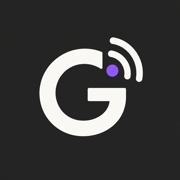
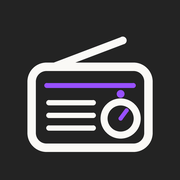
Replace Radio app artwork with retro radio and preserve iOS installation

Changed region(s): [[0.1389, 0.1944, 0.8611, 0.8611]]

diff --git a/radio.html b/radio.html
@@ -10,10 +10,11 @@
   <meta name="apple-mobile-web-app-capable" content="yes">
   <meta name="mobile-web-app-capable" content="yes">
   <meta name="theme-color" content="#7637cc">
-  <link rel="apple-touch-icon" sizes="180x180" href="/assets/radio-app/icon.svg?v=20261111-radio">
-  <link rel="manifest" href="/radio.webmanifest?v=20261111-radio">
+  <link rel="apple-touch-icon" sizes="180x180" href="/assets/radio-app/apple-touch-icon.png?v=20261111-retro-radio">
+  <link rel="manifest" href="/radio.webmanifest?v=20261111-retro-radio">
   <link href="https://fonts.googleapis.com/css2?family=Montserrat:wght@300;400;500&display=swap" rel="stylesheet">
-  <link rel="icon" type="image/svg+xml" sizes="any" href="/assets/radio-app/icon.svg?v=20261111-radio">
+  <link rel="icon" type="image/png" sizes="32x32" href="/assets/radio-app/favicon-32.png?v=20261111-retro-radio">
+  <link rel="icon" type="image/svg+xml" sizes="any" href="/assets/radio-app/icon.svg?v=20261111-retro-radio">
   <link rel="stylesheet" href="assets/tools.css">
   <link rel="stylesheet" href="assets/radio.css?v=20260924-2">
   <script src="assets/theme.js?v=20261017-theme-switch" defer></script>
@@ -43,7 +44,7 @@
 <a class="gregle-app" href="https://finance.gregle.uk/" data-gregle-app-id="/finance.html"><img src="/assets/finance-app/icon-192.png" width="44" height="44" alt="" loading="lazy" decoding="async"><span>Finance</span></a>
 <a class="gregle-app" href="https://calc.gregle.uk/" data-gregle-app-id="/calc.html"><img src="/assets/calc-app/icon-192.png" width="44" height="44" alt="" loading="lazy" decoding="async"><span>Calculator</span></a>
 <a class="gregle-app" href="https://links.gregle.uk/" data-gregle-app-id="/links.html"><img src="/assets/tools-app.svg" width="44" height="44" alt="" loading="lazy" decoding="async"><span>More</span></a>
-<a class="gregle-app" href="https://radio.gregle.uk/" aria-current="page" data-gregle-app-id="/radio.html"><img src="/assets/radio-app/icon-192.png" width="44" height="44" alt="" loading="lazy" decoding="async"><span>Radio</span></a>
+<a class="gregle-app" href="https://radio.gregle.uk/" aria-current="page" data-gregle-app-id="/radio.html"><img src="/assets/radio-app/icon-192.png?v=20261111-retro-radio" width="44" height="44" alt="" loading="lazy" decoding="async"><span>Radio</span></a>
 <a class="gregle-app" href="https://dictionary.gregle.uk/" data-gregle-app-id="/dictionary.html"><img src="/assets/dictionary-app/icon-192.png" width="44" height="44" alt="" loading="lazy" decoding="async"><span>Dictionary</span></a>
 <a class="gregle-app" href="https://maps.gregle.uk/" data-gregle-app-id="/maps.html"><img src="/assets/maps-app/icon.svg" width="44" height="44" alt="" loading="lazy" decoding="async"><span>Maps</span></a>
 <a class="gregle-app" href="https://cloud.gregle.uk" data-gregle-app-id="https://cloud.gregle.uk"><img src="/assets/cloud-app/icon.svg" width="44" height="44" alt="" loading="lazy" decoding="async"><span>Cloud</span></a>

diff --git a/calc.html b/calc.html
@@ -50,7 +50,7 @@
 <a class="gregle-app" href="https://finance.gregle.uk/" data-gregle-app-id="/finance.html"><img src="/assets/finance-app/icon-192.png" width="44" height="44" alt="" loading="lazy" decoding="async"><span>Finance</span></a>
 <a class="gregle-app" href="https://calc.gregle.uk/" aria-current="page" data-gregle-app-id="/calc.html"><img src="/assets/calc-app/icon-192.png" width="44" height="44" alt="" loading="lazy" decoding="async"><span>Calculator</span></a>
 <a class="gregle-app" href="https://links.gregle.uk/" data-gregle-app-id="/links.html"><img src="/assets/tools-app.svg" width="44" height="44" alt="" loading="lazy" decoding="async"><span>More</span></a>
-<a class="gregle-app" href="https://radio.gregle.uk/" data-gregle-app-id="/radio.html"><img src="/assets/radio-app/icon-192.png" width="44" height="44" alt="" loading="lazy" decoding="async"><span>Radio</span></a>
+<a class="gregle-app" href="https://radio.gregle.uk/" data-gregle-app-id="/radio.html"><img src="/assets/radio-app/icon-192.png?v=20261111-retro-radio" width="44" height="44" alt="" loading="lazy" decoding="async"><span>Radio</span></a>
 <a class="gregle-app" href="https://dictionary.gregle.uk/" data-gregle-app-id="/dictionary.html"><img src="/assets/dictionary-app/icon-192.png" width="44" height="44" alt="" loading="lazy" decoding="async"><span>Dictionary</span></a>
 <a class="gregle-app" href="https://maps.gregle.uk/" data-gregle-app-id="/maps.html"><img src="/assets/maps-app/icon.svg" width="44" height="44" alt="" loading="lazy" decoding="async"><span>Maps</span></a>
 <a class="gregle-app" href="https://cloud.gregle.uk" data-gregle-app-id="https://cloud.gregle.uk"><img src="/assets/cloud-app/icon.svg" width="44" height="44" alt="" loading="lazy" decoding="async"><span>Cloud</span></a>

diff --git a/dictionary.html b/dictionary.html
@@ -31,7 +31,7 @@
 <a class="gregle-app" href="https://finance.gregle.uk/" data-gregle-app-id="/finance.html"><img src="/assets/finance-app/icon-192.png" width="44" height="44" alt="" loading="lazy" decoding="async"><span>Finance</span></a>
 <a class="gregle-app" href="https://calc.gregle.uk/" data-gregle-app-id="/calc.html"><img src="/assets/calc-app/icon-192.png" width="44" height="44" alt="" loading="lazy" decoding="async"><span>Calculator</span></a>
 <a class="gregle-app" href="https://links.gregle.uk/" data-gregle-app-id="/links.html"><img src="/assets/tools-app.svg" width="44" height="44" alt="" loading="lazy" decoding="async"><span>More</span></a>
-<a class="gregle-app" href="https://radio.gregle.uk/" data-gregle-app-id="/radio.html"><img src="/assets/radio-app/icon-192.png" width="44" height="44" alt="" loading="lazy" decoding="async"><span>Radio</span></a>
+<a class="gregle-app" href="https://radio.gregle.uk/" data-gregle-app-id="/radio.html"><img src="/assets/radio-app/icon-192.png?v=20261111-retro-radio" width="44" height="44" alt="" loading="lazy" decoding="async"><span>Radio</span></a>
 <a class="gregle-app" href="https://dictionary.gregle.uk/" aria-current="page" data-gregle-app-id="/dictionary.html"><img src="/assets/dictionary-app/icon-192.png" width="44" height="44" alt="" loading="lazy" decoding="async"><span>Dictionary</span></a>
 <a class="gregle-app" href="https://maps.gregle.uk/" data-gregle-app-id="/maps.html"><img src="/assets/maps-app/icon.svg" width="44" height="44" alt="" loading="lazy" decoding="async"><span>Maps</span></a>
 <a class="gregle-app" href="https://cloud.gregle.uk" data-gregle-app-id="https://cloud.gregle.uk"><img src="/assets/cloud-app/icon.svg" width="44" height="44" alt="" loading="lazy" decoding="async"><span>Cloud</span></a>

diff --git a/finance.html b/finance.html
@@ -48,7 +48,7 @@
 <a class="gregle-app" href="https://finance.gregle.uk/" aria-current="page" data-gregle-app-id="/finance.html"><img src="/assets/finance-app/icon-192.png" width="44" height="44" alt="" loading="lazy" decoding="async"><span>Finance</span></a>
 <a class="gregle-app" href="https://calc.gregle.uk/" data-gregle-app-id="/calc.html"><img src="/assets/calc-app/icon-192.png" width="44" height="44" alt="" loading="lazy" decoding="async"><span>Calculator</span></a>
 <a class="gregle-app" href="https://links.gregle.uk/" data-gregle-app-id="/links.html"><img src="/assets/tools-app.svg" width="44" height="44" alt="" loading="lazy" decoding="async"><span>More</span></a>
-<a class="gregle-app" href="https://radio.gregle.uk/" data-gregle-app-id="/radio.html"><img src="/assets/radio-app/icon-192.png" width="44" height="44" alt="" loading="lazy" decoding="async"><span>Radio</span></a>
+<a class="gregle-app" href="https://radio.gregle.uk/" data-gregle-app-id="/radio.html"><img src="/assets/radio-app/icon-192.png?v=20261111-retro-radio" width="44" height="44" alt="" loading="lazy" decoding="async"><span>Radio</span></a>
 <a class="gregle-app" href="https://dictionary.gregle.uk/" data-gregle-app-id="/dictionary.html"><img src="/assets/dictionary-app/icon-192.png" width="44" height="44" alt="" loading="lazy" decoding="async"><span>Dictionary</span></a>
 <a class="gregle-app" href="https://maps.gregle.uk/" data-gregle-app-id="/maps.html"><img src="/assets/maps-app/icon.svg" width="44" height="44" alt="" loading="lazy" decoding="async"><span>Maps</span></a>
 <a class="gregle-app" href="https://cloud.gregle.uk" data-gregle-app-id="https://cloud.gregle.uk"><img src="/assets/cloud-app/icon.svg" width="44" height="44" alt="" loading="lazy" decoding="async"><span>Cloud</span></a>

diff --git a/links.html b/links.html
@@ -34,7 +34,7 @@
 <a class="gregle-app" href="https://finance.gregle.uk/" data-gregle-app-id="/finance.html"><img src="/assets/finance-app/icon-192.png" width="44" height="44" alt="" loading="lazy" decoding="async"><span>Finance</span></a>
 <a class="gregle-app" href="https://calc.gregle.uk/" data-gregle-app-id="/calc.html"><img src="/assets/calc-app/icon-192.png" width="44" height="44" alt="" loading="lazy" decoding="async"><span>Calculator</span></a>
 <a class="gregle-app" href="https://links.gregle.uk/" aria-current="page" data-gregle-app-id="/links.html"><img src="/assets/tools-app.svg" width="44" height="44" alt="" loading="lazy" decoding="async"><span>More</span></a>
-<a class="gregle-app" href="https://radio.gregle.uk/" data-gregle-app-id="/radio.html"><img src="/assets/radio-app/icon-192.png" width="44" height="44" alt="" loading="lazy" decoding="async"><span>Radio</span></a>
+<a class="gregle-app" href="https://radio.gregle.uk/" data-gregle-app-id="/radio.html"><img src="/assets/radio-app/icon-192.png?v=20261111-retro-radio" width="44" height="44" alt="" loading="lazy" decoding="async"><span>Radio</span></a>
 <a class="gregle-app" href="https://dictionary.gregle.uk/" data-gregle-app-id="/dictionary.html"><img src="/assets/dictionary-app/icon-192.png" width="44" height="44" alt="" loading="lazy" decoding="async"><span>Dictionary</span></a>
 <a class="gregle-app" href="https://maps.gregle.uk/" data-gregle-app-id="/maps.html"><img src="/assets/maps-app/icon.svg" width="44" height="44" alt="" loading="lazy" decoding="async"><span>Maps</span></a>
 <a class="gregle-app" href="https://cloud.gregle.uk" data-gregle-app-id="https://cloud.gregle.uk"><img src="/assets/cloud-app/icon.svg" width="44" height="44" alt="" loading="lazy" decoding="async"><span>Cloud</span></a>

diff --git a/maps.html b/maps.html
@@ -89,7 +89,7 @@
 <a class="gregle-app" href="https://finance.gregle.uk/" data-gregle-app-id="/finance.html"><img src="/assets/finance-app/icon-192.png" width="44" height="44" alt="" loading="lazy" decoding="async"><span>Finance</span></a>
 <a class="gregle-app" href="https://calc.gregle.uk/" data-gregle-app-id="/calc.html"><img src="/assets/calc-app/icon-192.png" width="44" height="44" alt="" loading="lazy" decoding="async"><span>Calculator</span></a>
 <a class="gregle-app" href="https://links.gregle.uk/" data-gregle-app-id="/links.html"><img src="/assets/tools-app.svg" width="44" height="44" alt="" loading="lazy" decoding="async"><span>More</span></a>
-<a class="gregle-app" href="https://radio.gregle.uk/" data-gregle-app-id="/radio.html"><img src="/assets/radio-app/icon-192.png" width="44" height="44" alt="" loading="lazy" decoding="async"><span>Radio</span></a>
+<a class="gregle-app" href="https://radio.gregle.uk/" data-gregle-app-id="/radio.html"><img src="/assets/radio-app/icon-192.png?v=20261111-retro-radio" width="44" height="44" alt="" loading="lazy" decoding="async"><span>Radio</span></a>
 <a class="gregle-app" href="https://dictionary.gregle.uk/" data-gregle-app-id="/dictionary.html"><img src="/assets/dictionary-app/icon-192.png" width="44" height="44" alt="" loading="lazy" decoding="async"><span>Dictionary</span></a>
 <a class="gregle-app" href="https://maps.gregle.uk/" aria-current="page" data-gregle-app-id="/maps.html"><img src="/assets/maps-app/icon.svg" width="44" height="44" alt="" loading="lazy" decoding="async"><span>Maps</span></a>
 <a class="gregle-app" href="https://cloud.gregle.uk" data-gregle-app-id="https://cloud.gregle.uk"><img src="/assets/cloud-app/icon.svg" width="44" height="44" alt="" loading="lazy" decoding="async"><span>Cloud</span></a>

diff --git a/contact.html b/contact.html
@@ -381,7 +381,7 @@
 <a class="gregle-app" href="https://finance.gregle.uk/" data-gregle-app-id="/finance.html"><img src="/assets/finance-app/icon-192.png" width="44" height="44" alt="" loading="lazy" decoding="async"><span>Finance</span></a>
 <a class="gregle-app" href="https://calc.gregle.uk/" data-gregle-app-id="/calc.html"><img src="/assets/calc-app/icon-192.png" width="44" height="44" alt="" loading="lazy" decoding="async"><span>Calculator</span></a>
 <a class="gregle-app" href="https://links.gregle.uk/" data-gregle-app-id="/links.html"><img src="/assets/tools-app.svg" width="44" height="44" alt="" loading="lazy" decoding="async"><span>More</span></a>
-<a class="gregle-app" href="https://radio.gregle.uk/" data-gregle-app-id="/radio.html"><img src="/assets/radio-app/icon-192.png" width="44" height="44" alt="" loading="lazy" decoding="async"><span>Radio</span></a>
+<a class="gregle-app" href="https://radio.gregle.uk/" data-gregle-app-id="/radio.html"><img src="/assets/radio-app/icon-192.png?v=20261111-retro-radio" width="44" height="44" alt="" loading="lazy" decoding="async"><span>Radio</span></a>
 <a class="gregle-app" href="https://dictionary.gregle.uk/" data-gregle-app-id="/dictionary.html"><img src="/assets/dictionary-app/icon-192.png" width="44" height="44" alt="" loading="lazy" decoding="async"><span>Dictionary</span></a>
 <a class="gregle-app" href="https://maps.gregle.uk/" data-gregle-app-id="/maps.html"><img src="/assets/maps-app/icon.svg" width="44" height="44" alt="" loading="lazy" decoding="async"><span>Maps</span></a>
 <a class="gregle-app" href="https://cloud.gregle.uk" data-gregle-app-id="https://cloud.gregle.uk"><img src="/assets/cloud-app/icon.svg" width="44" height="44" alt="" loading="lazy" decoding="async"><span>Cloud</span></a>

diff --git a/donate.html b/donate.html
@@ -551,7 +551,7 @@
 <a class="gregle-app" href="https://finance.gregle.uk/" data-gregle-app-id="/finance.html"><img src="/assets/finance-app/icon-192.png" width="44" height="44" alt="" loading="lazy" decoding="async"><span>Finance</span></a>
 <a class="gregle-app" href="https://calc.gregle.uk/" data-gregle-app-id="/calc.html"><img src="/assets/calc-app/icon-192.png" width="44" height="44" alt="" loading="lazy" decoding="async"><span>Calculator</span></a>
 <a class="gregle-app" href="https://links.gregle.uk/" data-gregle-app-id="/links.html"><img src="/assets/tools-app.svg" width="44" height="44" alt="" loading="lazy" decoding="async"><span>More</span></a>
-<a class="gregle-app" href="https://radio.gregle.uk/" data-gregle-app-id="/radio.html"><img src="/assets/radio-app/icon-192.png" width="44" height="44" alt="" loading="lazy" decoding="async"><span>Radio</span></a>
+<a class="gregle-app" href="https://radio.gregle.uk/" data-gregle-app-id="/radio.html"><img src="/assets/radio-app/icon-192.png?v=20261111-retro-radio" width="44" height="44" alt="" loading="lazy" decoding="async"><span>Radio</span></a>
 <a class="gregle-app" href="https://dictionary.gregle.uk/" data-gregle-app-id="/dictionary.html"><img src="/assets/dictionary-app/icon-192.png" width="44" height="44" alt="" loading="lazy" decoding="async"><span>Dictionary</span></a>
 <a class="gregle-app" href="https://maps.gregle.uk/" data-gregle-app-id="/maps.html"><img src="/assets/maps-app/icon.svg" width="44" height="44" alt="" loading="lazy" decoding="async"><span>Maps</span></a>
 <a class="gregle-app" href="https://cloud.gregle.uk" data-gregle-app-id="https://cloud.gregle.uk"><img src="/assets/cloud-app/icon.svg" width="44" height="44" alt="" loading="lazy" decoding="async"><span>Cloud</span></a>

diff --git a/index.html b/index.html
@@ -908,7 +908,7 @@
 <a class="gregle-app" href="https://finance.gregle.uk/" data-gregle-app-id="/finance.html"><img src="/assets/finance-app/icon-192.png" width="44" height="44" alt="" loading="lazy" decoding="async"><span>Finance</span></a>
 <a class="gregle-app" href="https://calc.gregle.uk/" data-gregle-app-id="/calc.html"><img src="/assets/calc-app/icon-192.png" width="44" height="44" alt="" loading="lazy" decoding="async"><span>Calculator</span></a>
 <a class="gregle-app" href="https://links.gregle.uk/" data-gregle-app-id="/links.html"><img src="/assets/tools-app.svg" width="44" height="44" alt="" loading="lazy" decoding="async"><span>More</span></a>
-<a class="gregle-app" href="https://radio.gregle.uk/" data-gregle-app-id="/radio.html"><img src="/assets/radio-app/icon-192.png" width="44" height="44" alt="" loading="lazy" decoding="async"><span>Radio</span></a>
+<a class="gregle-app" href="https://radio.gregle.uk/" data-gregle-app-id="/radio.html"><img src="/assets/radio-app/icon-192.png?v=20261111-retro-radio" width="44" height="44" alt="" loading="lazy" decoding="async"><span>Radio</span></a>
 <a class="gregle-app" href="https://dictionary.gregle.uk/" data-gregle-app-id="/dictionary.html"><img src="/assets/dictionary-app/icon-192.png" width="44" height="44" alt="" loading="lazy" decoding="async"><span>Dictionary</span></a>
 <a class="gregle-app" href="https://maps.gregle.uk/" data-gregle-app-id="/maps.html"><img src="/assets/maps-app/icon.svg" width="44" height="44" alt="" loading="lazy" decoding="async"><span>Maps</span></a>
 <a class="gregle-app" href="https://cloud.gregle.uk" data-gregle-app-id="https://cloud.gregle.uk"><img src="/assets/cloud-app/icon.svg" width="44" height="44" alt="" loading="lazy" decoding="async"><span>Cloud</span></a>

diff --git a/Victoria_weather.html b/Victoria_weather.html
@@ -32,7 +32,7 @@
 <a class="gregle-app" href="https://finance.gregle.uk/" data-gregle-app-id="/finance.html"><img src="/assets/finance-app/icon-192.png" width="44" height="44" alt="" loading="lazy" decoding="async"><span>Finance</span></a>
 <a class="gregle-app" href="https://calc.gregle.uk/" data-gregle-app-id="/calc.html"><img src="/assets/calc-app/icon-192.png" width="44" height="44" alt="" loading="lazy" decoding="async"><span>Calculator</span></a>
 <a class="gregle-app" href="https://links.gregle.uk/" data-gregle-app-id="/links.html"><img src="/assets/tools-app.svg" width="44" height="44" alt="" loading="lazy" decoding="async"><span>More</span></a>
-<a class="gregle-app" href="https://radio.gregle.uk/" data-gregle-app-id="/radio.html"><img src="/assets/radio-app/icon-192.png" width="44" height="44" alt="" loading="lazy" decoding="async"><span>Radio</span></a>
+<a class="gregle-app" href="https://radio.gregle.uk/" data-gregle-app-id="/radio.html"><img src="/assets/radio-app/icon-192.png?v=20261111-retro-radio" width="44" height="44" alt="" loading="lazy" decoding="async"><span>Radio</span></a>
 <a class="gregle-app" href="https://dictionary.gregle.uk/" data-gregle-app-id="/dictionary.html"><img src="/assets/dictionary-app/icon-192.png" width="44" height="44" alt="" loading="lazy" decoding="async"><span>Dictionary</span></a>
 <a class="gregle-app" href="https://maps.gregle.uk/" data-gregle-app-id="/maps.html"><img src="/assets/maps-app/icon.svg" width="44" height="44" alt="" loading="lazy" decoding="async"><span>Maps</span></a>
 <a class="gregle-app" href="https://cloud.gregle.uk" data-gregle-app-id="https://cloud.gregle.uk"><img src="/assets/cloud-app/icon.svg" width="44" height="44" alt="" loading="lazy" decoding="async"><span>Cloud</span></a>

diff --git a/astro.html b/astro.html
@@ -70,7 +70,7 @@
 <a class="gregle-app" href="https://finance.gregle.uk/" data-gregle-app-id="/finance.html"><img src="/assets/finance-app/icon-192.png" width="44" height="44" alt="" loading="lazy" decoding="async"><span>Finance</span></a>
 <a class="gregle-app" href="https://calc.gregle.uk/" data-gregle-app-id="/calc.html"><img src="/assets/calc-app/icon-192.png" width="44" height="44" alt="" loading="lazy" decoding="async"><span>Calculator</span></a>
 <a class="gregle-app" href="https://links.gregle.uk/" data-gregle-app-id="/links.html"><img src="/assets/tools-app.svg" width="44" height="44" alt="" loading="lazy" decoding="async"><span>More</span></a>
-<a class="gregle-app" href="https://radio.gregle.uk/" data-gregle-app-id="/radio.html"><img src="/assets/radio-app/icon-192.png" width="44" height="44" alt="" loading="lazy" decoding="async"><span>Radio</span></a>
+<a class="gregle-app" href="https://radio.gregle.uk/" data-gregle-app-id="/radio.html"><img src="/assets/radio-app/icon-192.png?v=20261111-retro-radio" width="44" height="44" alt="" loading="lazy" decoding="async"><span>Radio</span></a>
 <a class="gregle-app" href="https://dictionary.gregle.uk/" data-gregle-app-id="/dictionary.html"><img src="/assets/dictionary-app/icon-192.png" width="44" height="44" alt="" loading="lazy" decoding="async"><span>Dictionary</span></a>
 <a class="gregle-app" href="https://maps.gregle.uk/" data-gregle-app-id="/maps.html"><img src="/assets/maps-app/icon.svg" width="44" height="44" alt="" loading="lazy" decoding="async"><span>Maps</span></a>
 <a class="gregle-app" href="https://cloud.gregle.uk" data-gregle-app-id="https://cloud.gregle.uk"><img src="/assets/cloud-app/icon.svg" width="44" height="44" alt="" loading="lazy" decoding="async"><span>Cloud</span></a>

diff --git a/bill-splitter.html b/bill-splitter.html
@@ -35,7 +35,7 @@
 <a class="gregle-app" href="https://finance.gregle.uk/" data-gregle-app-id="/finance.html"><img src="/assets/finance-app/icon-192.png" width="44" height="44" alt="" loading="lazy" decoding="async"><span>Finance</span></a>
 <a class="gregle-app" href="https://calc.gregle.uk/" data-gregle-app-id="/calc.html"><img src="/assets/calc-app/icon-192.png" width="44" height="44" alt="" loading="lazy" decoding="async"><span>Calculator</span></a>
 <a class="gregle-app" href="https://links.gregle.uk/" data-gregle-app-id="/links.html"><img src="/assets/tools-app.svg" width="44" height="44" alt="" loading="lazy" decoding="async"><span>More</span></a>
-<a class="gregle-app" href="https://radio.gregle.uk/" data-gregle-app-id="/radio.html"><img src="/assets/radio-app/icon-192.png" width="44" height="44" alt="" loading="lazy" decoding="async"><span>Radio</span></a>
+<a class="gregle-app" href="https://radio.gregle.uk/" data-gregle-app-id="/radio.html"><img src="/assets/radio-app/icon-192.png?v=20261111-retro-radio" width="44" height="44" alt="" loading="lazy" decoding="async"><span>Radio</span></a>
 <a class="gregle-app" href="https://dictionary.gregle.uk/" data-gregle-app-id="/dictionary.html"><img src="/assets/dictionary-app/icon-192.png" width="44" height="44" alt="" loading="lazy" decoding="async"><span>Dictionary</span></a>
 <a class="gregle-app" href="https://maps.gregle.uk/" data-gregle-app-id="/maps.html"><img src="/assets/maps-app/icon.svg" width="44" height="44" alt="" loading="lazy" decoding="async"><span>Maps</span></a>
 <a class="gregle-app" href="https://cloud.gregle.uk" data-gregle-app-id="https://cloud.gregle.uk"><img src="/assets/cloud-app/icon.svg" width="44" height="44" alt="" loading="lazy" decoding="async"><span>Cloud</span></a>
